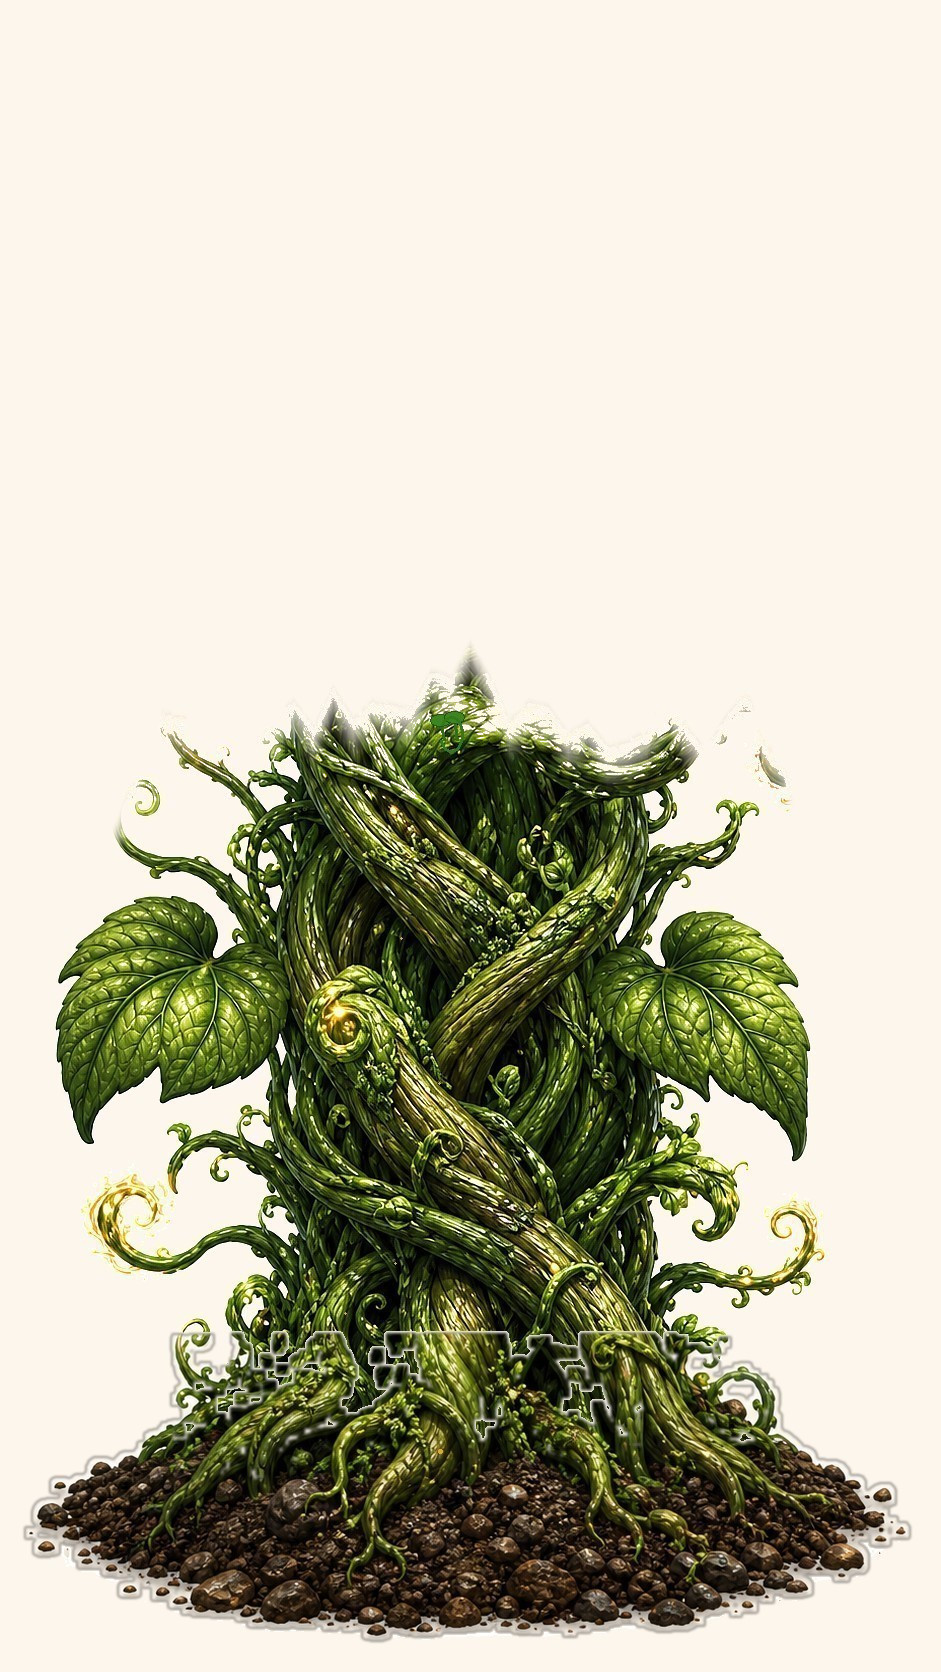
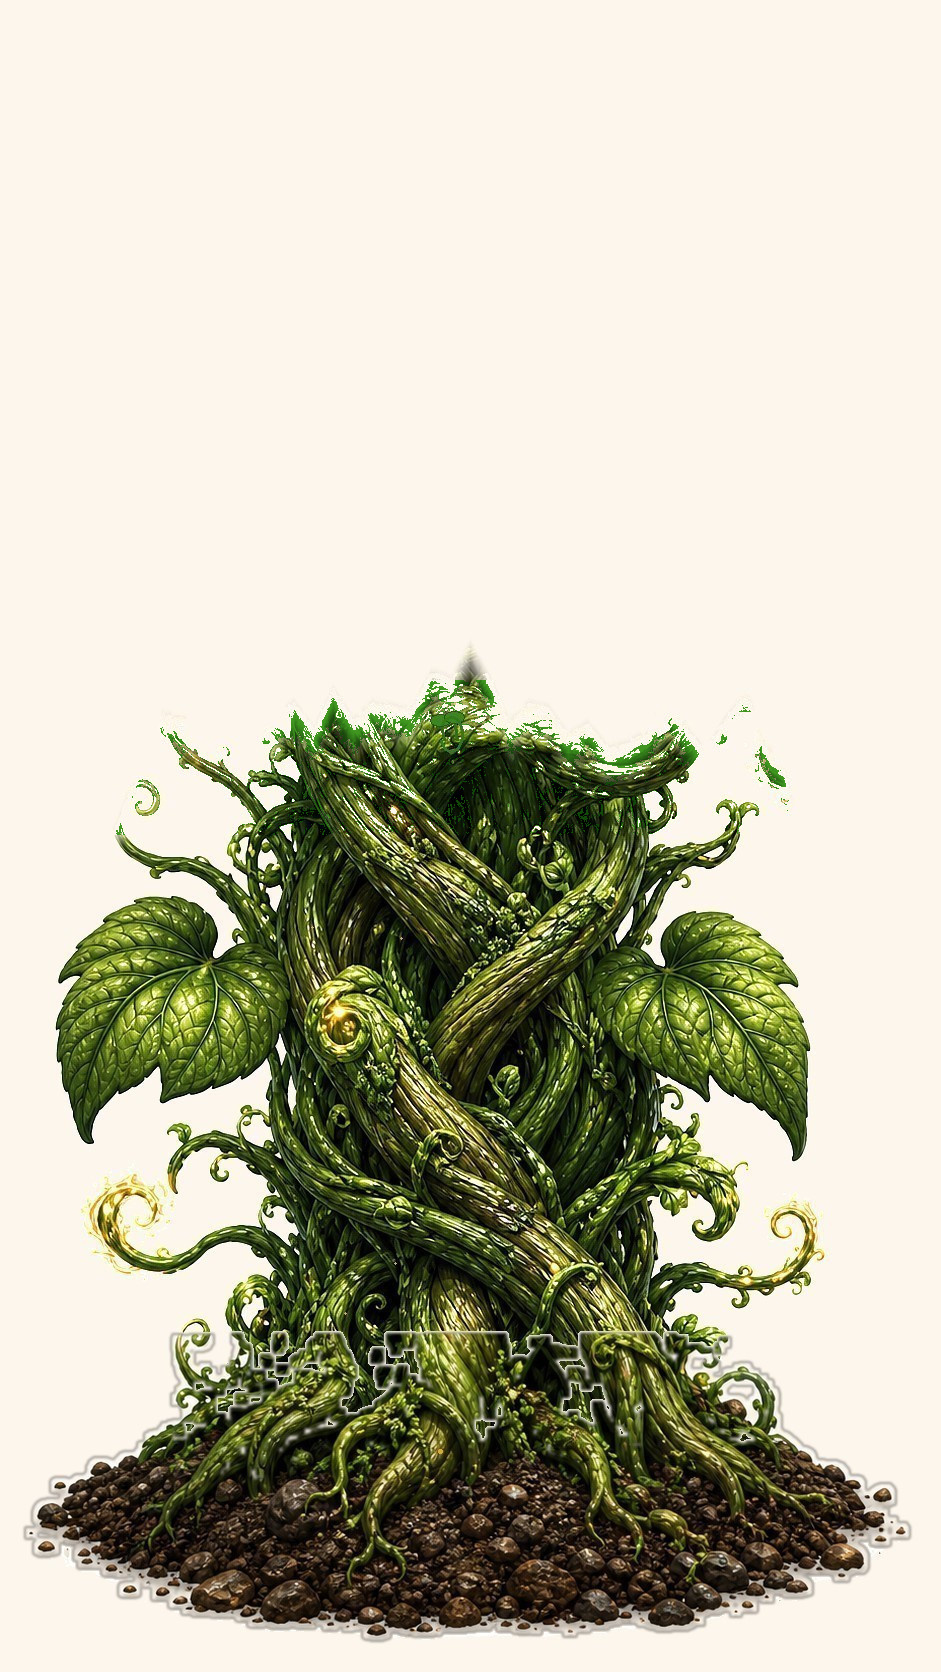
修复魔树树冠灰烟并加入饱和度验收

diff --git a/scripts/validate_magic_tree_frames.py b/scripts/validate_magic_tree_frames.py
@@ -28,6 +28,20 @@ def luminance(arr: np.ndarray) -> np.ndarray:
     return arr.astype(np.float32) @ LUMA_WEIGHTS
 
 
+def saturation(arr: np.ndarray) -> np.ndarray:
+    rgb = arr.astype(np.float32) / 255.0
+    max_channel = rgb.max(axis=2)
+    min_channel = rgb.min(axis=2)
+    sat = np.zeros_like(max_channel)
+    non_black = max_channel > 0
+    sat[non_black] = (
+        (max_channel[non_black] - min_channel[non_black])
+        / max_channel[non_black]
+        * 255.0
+    )
+    return sat
+
+
 def foreground_mask(arr: np.ndarray) -> np.ndarray:
     diff = np.abs(arr.astype(np.float32) - BG).sum(axis=2)
     return diff > 34
@@ -128,6 +142,44 @@ def crown_smear_ratio(arr: np.ndarray, plant_top: float) -> float:
     return float(np.count_nonzero(bright_content) / np.count_nonzero(content))
 
 
+def crown_saturation_metrics(
+    arr: np.ndarray,
+    plant_top: float,
+    green_box: tuple[int, int, int, int] | None,
+) -> tuple[float, float]:
+    h = arr.shape[0]
+    top = min(h - 1, max(0, int(round(plant_top * h))))
+    crown_bottom = min(h, top + 90)
+    fg = foreground_mask(arr)
+    sat = saturation(arr)
+
+    crown_content = fg[top:crown_bottom]
+    crown_sat = sat[top:crown_bottom][crown_content]
+    if len(crown_sat) == 0:
+        return 1.0, 0.0
+
+    if green_box:
+        mid_y = int(green_box[1] + (green_box[3] - green_box[1]) * 0.45)
+    else:
+        mid_y = top + 160
+
+    mid_sat = None
+    for offset in (0, 90, 180, -90, 270, -180, 360, 450, -270):
+        y0 = max(0, min(h - 90, mid_y + offset))
+        values = sat[y0 : y0 + 90][fg[y0 : y0 + 90]]
+        if len(values) > 20:
+            mid_sat = values
+            break
+
+    if mid_sat is None or len(mid_sat) == 0:
+        return 1.0, float(np.mean(crown_sat < 60))
+
+    return (
+        float(np.mean(crown_sat) / max(1.0, float(np.mean(mid_sat)))),
+        float(np.mean(crown_sat < 60)),
+    )
+
+
 def main() -> None:
     parser = argparse.ArgumentParser()
     parser.add_argument("frame_dir", type=Path)
@@ -139,6 +191,8 @@ def main() -> None:
     parser.add_argument("--max-leaf-diameter-drift", type=float, default=0.2)
     parser.add_argument("--max-crown-smear-ratio", type=float, default=0.03)
     parser.add_argument("--max-brightness-over-bg", type=float, default=10.0)
+    parser.add_argument("--min-crown-saturation-ratio", type=float, default=0.85)
+    parser.add_argument("--max-crown-gray-ratio", type=float, default=0.20)
     args = parser.parse_args()
 
     paths = load_frames(args.frame_dir)
@@ -159,6 +213,7 @@ def main() -> None:
     leaf_counts: list[int] = []
     bg_means: list[list[float]] = []
     brightness_over_bg: list[float] = []
+    green_boxes: list[tuple[int, int, int, int] | None] = []
 
     for arr in arrays:
         fg = foreground_mask(arr)
@@ -168,6 +223,7 @@ def main() -> None:
         gb = bbox(gm)
         sb = bbox(sm)
         h, w = arr.shape[:2]
+        green_boxes.append(gb)
         content_boxes.append(fb if fb else (0, 0, 0, 0))
         plant_tops.append((gb[1] / h) if gb else 1.0)
         if sb:
@@ -196,6 +252,12 @@ def main() -> None:
         crown_smear_ratio(arr, plant_top)
         for arr, plant_top in zip(arrays, plant_tops, strict=True)
     ]
+    crown_saturation = [
+        crown_saturation_metrics(arr, plant_top, green_box)
+        for arr, plant_top, green_box in zip(arrays, plant_tops, green_boxes, strict=True)
+    ]
+    crown_saturation_ratios = [v[0] for v in crown_saturation]
+    crown_gray_ratios = [v[1] for v in crown_saturation]
 
     top_regressions = [
         i + 1
@@ -241,6 +303,9 @@ def main() -> None:
         "background_stable": max(bg_range) <= 2.0,
         "crown_smear": max(crown_smears) <= args.max_crown_smear_ratio,
         "brightness_not_over_bg": max(brightness_over_bg) <= args.max_brightness_over_bg,
+        "crown_saturation_ratio": min(crown_saturation_ratios)
+        >= args.min_crown_saturation_ratio,
+        "crown_gray_ratio": max(crown_gray_ratios) <= args.max_crown_gray_ratio,
         "format_and_size": len(sizes) == 1
         and sizes[0] == (941, 1672)
         and paths[0].suffix.lower() == ".jpg",
@@ -273,6 +338,12 @@ def main() -> None:
         "crown_smear_ratio_values": [round(v, 4) for v in crown_smears],
         "brightness_over_bg_max": round(max(brightness_over_bg), 3),
         "brightness_over_bg_values": [round(v, 3) for v in brightness_over_bg],
+        "crown_saturation_ratio_min": round(min(crown_saturation_ratios), 4),
+        "crown_saturation_ratio_values": [
+            round(v, 4) for v in crown_saturation_ratios
+        ],
+        "crown_gray_ratio_max": round(max(crown_gray_ratios), 4),
+        "crown_gray_ratio_values": [round(v, 4) for v in crown_gray_ratios],
         "checks": pass_checks,
         "pass": all(pass_checks.values()),
     }

diff --git a/picture/魔树动画素材/素材说明.md b/picture/魔树动画素材/素材说明.md
@@ -1,12 +1,12 @@
 # 魔树动画素材说明
 
-本目录是魔树生长动画的高清固定土堆显现版 JPEG q90 素材，用于替换低清连贯帧、逐帧独立 PNG、土树分层横切版、整体 zoom 版，以及树冠带浅色拖影的版本。
+本目录是魔树生长动画的高清固定土堆 JPEG 素材，用于替换低清插画帧、逐帧独立 PNG、土树分层横切版、整体 zoom 版，以及树冠带灰色拖影的旧版本。
 
 ## 文件
 
-- `magic_tree_f01.jpg` 到 `magic_tree_f28.jpg`：28 帧连贯生长序列
+- `magic_tree_f01.jpg` 到 `magic_tree_f28.jpg`：28 帧连续生长序列
 - `preview_contact_sheet.jpg`：28 帧总览预览
-- `magic_tree_sequence_preview.gif`：快速动效预览，仅用于查看节奏
+- `magic_tree_sequence_preview.gif`：小尺寸快速动效预览，仅用于查看节奏
 - `approved_highres_reference.png`：用户认可的高清终帧风格参考
 - `validation_report.json`：素材自检结果
 - `manifest.json`：素材元信息
@@ -14,36 +14,37 @@
 ## 规格
 
 - 单帧尺寸：941x1672
-- 格式：JPEG q90
-- 总体积：约 14.0MB
-- 背景：接近 `#FDF6EC`
+- 格式：JPEG q95
+- 28 帧合计：约 12.5MB
+- 预览 GIF：约 2.1MB
+- 背景：固定 `#FDF6EC`
 - 命名：`magic_tree_f01.jpg` 到 `magic_tree_f28.jpg`
 
 ## 本版修正
 
-本版使用用户认可的高清终帧作为唯一锚点，固定土堆，只让原尺寸植株通过柔和不规则生长边界向上显现，并清理树冠浅色拖影：
+本版保留上一版已经通过的固定土堆、非 zoom、非拼接、非拉伸路线，只针对树冠切口做重新清理：
 
-- 保留同一株魔树的视觉身份
-- 土堆宽度和底边固定
-- 植株保持原尺寸，不做整体 zoom
-- 生长方向以向上显现为主，横向展开受限
-- 清除树冠接近背景色的浅色残影
-- 限制全图亮度，不出现比背景更亮的光晕
-- 不再使用切片平铺、镜像、纵向拉伸树干等路线
-- `validation_report.json` 为 `pass: true` 时才交付
+- 正式 validator 新增树冠饱和度比和树冠灰像素占比判据
+- 先用新判据确认旧素材失败，再替换为修复后的帧序列
+- 树冠低饱和灰烟像素不再通过调暗绕过，而是在最终 JPEG 像素层复扫清理
+- 接近背景的树冠过渡像素清成背景，仍可见的低饱和烟色改成更深、更饱和的藤绿
+- 保持土堆宽度和底边固定，保持同一株魔树的视觉身份
+- 不使用切片平铺、镜像、纵向拉伸、整体 zoom 或半透明羽化来制造树冠
 
 ## 当前验收
 
 当前 `validation_report.json` 为 `pass: true`。关键数据：
 
-- 相邻帧平均差最大：4.649
-- 末帧缩放比对最低：54.579
+- 相邻帧平均差最大：4.889
+- 末帧缩放比对最低：54.849
 - 宽高增长比：0.199
-- 叶片直径漂移：6.3%
+- 叶片直径漂移：3.9%
 - 土堆宽度漂移：0
 - 土堆底边漂移：0
-- 树冠拖影率最大：2.93%
-- 最亮像素亮度超背景：8.234
+- 树冠近背景拖影率最大：1.34%
+- 全图最亮像素亮度超背景：8.234
+- 树冠饱和度比最低：1.0187
+- 树冠灰像素占比最高：1.78%
 
 ## 接入建议
 
@@ -55,4 +56,4 @@
 
 ## 注意
 
-这版优先解决“高清质感、同株视觉身份、无拼接、无横向切口、不是 zoom、土堆固定、树冠无拖影”。如果之后继续追求更真实的“新叶逐片长出、藤条逐步变粗”，必须使用“一张大图画完全部帧再拆”或“img2img 链式低重绘”方式生成，不能再逐帧独立生成。
+这版优先解决“高清质感、同株视觉身份、无拼接、无横向切口、不是 zoom、土堆固定、树冠无灰烟拖影”。如果之后继续追求更真实的“新叶逐片长出、藤条逐步变粗”，必须使用“一张大图画完全部帧再拆”或“img2img 链式低重绘”的方式生成，不能再逐帧独立生成。

diff --git a/docs/CODE_MAP.md b/docs/CODE_MAP.md
@@ -1,7 +1,7 @@
 # 代码地图（CODE MAP）
 
 > ⚠ 本文件由 `scripts/update_code_map.sh` 自动生成，请勿手工编辑。
-> 生成时间：2026-07-30 15:59:56　对应提交：dfa1a44 之后的工作区状态
+> 生成时间：2026-07-30 16:24:47　对应提交：b13d5ca 之后的工作区状态
 
 ## 一、索引状态
 
@@ -13,15 +13,15 @@ Project: C:\Users\yunhao.zhou1\Desktop\Easy Create
 
 Index Statistics:
   Files:     110
-  Nodes:     4,136
-  Edges:     19,268
-  DB Size:   21.08 MB
+  Nodes:     4,138
+  Edges:     19,273
+  DB Size:   21.11 MB
   Backend:   node:sqlite - built-in (full WAL)
   Journal:   wal
 
 Nodes by Kind:
   method          1,567
-  function        1,395
+  function        1,397
   class           467
   import          349
   constant        210
@@ -198,7 +198,7 @@ Project Structure (110 files):
 |   |-- e2e_probe.dart (dart, 12 symbols)
 |   |-- serve_web.dart (dart, 4 symbols)
 |   |-- square_standins.py (python, 11 symbols)
-|   `-- validate_magic_tree_frames.py (python, 22 symbols)
+|   `-- validate_magic_tree_frames.py (python, 24 symbols)
 |-- test
 |   |-- core
 |   |   |-- chinese_numbers_test.dart (dart, 4 symbols)
